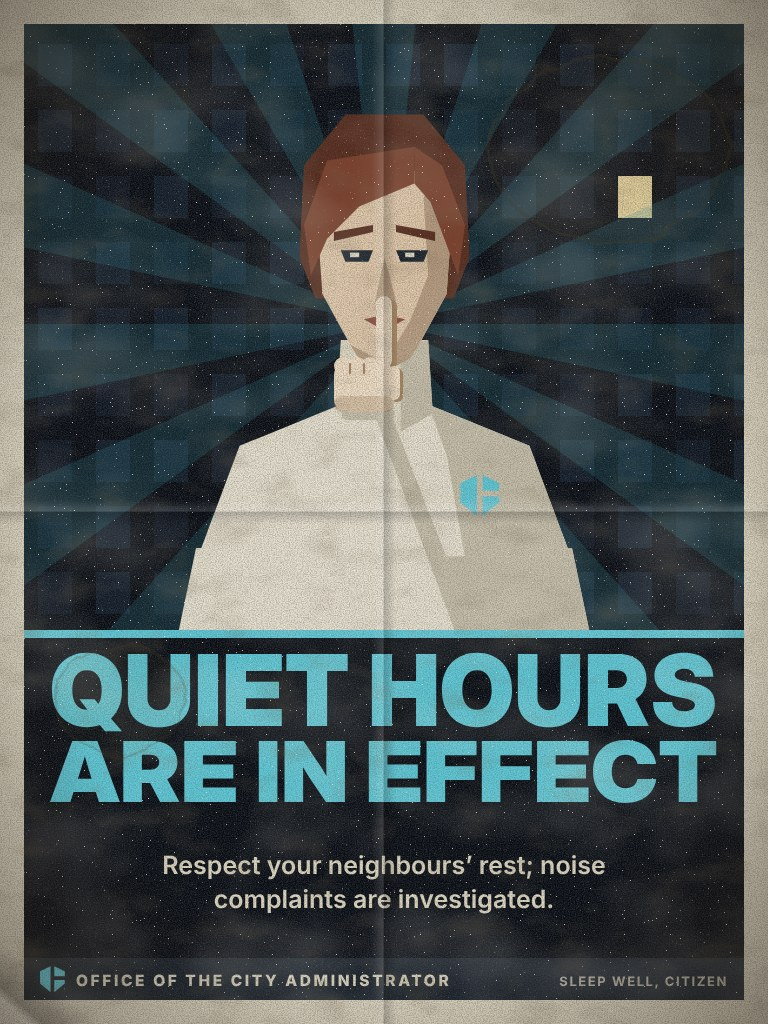
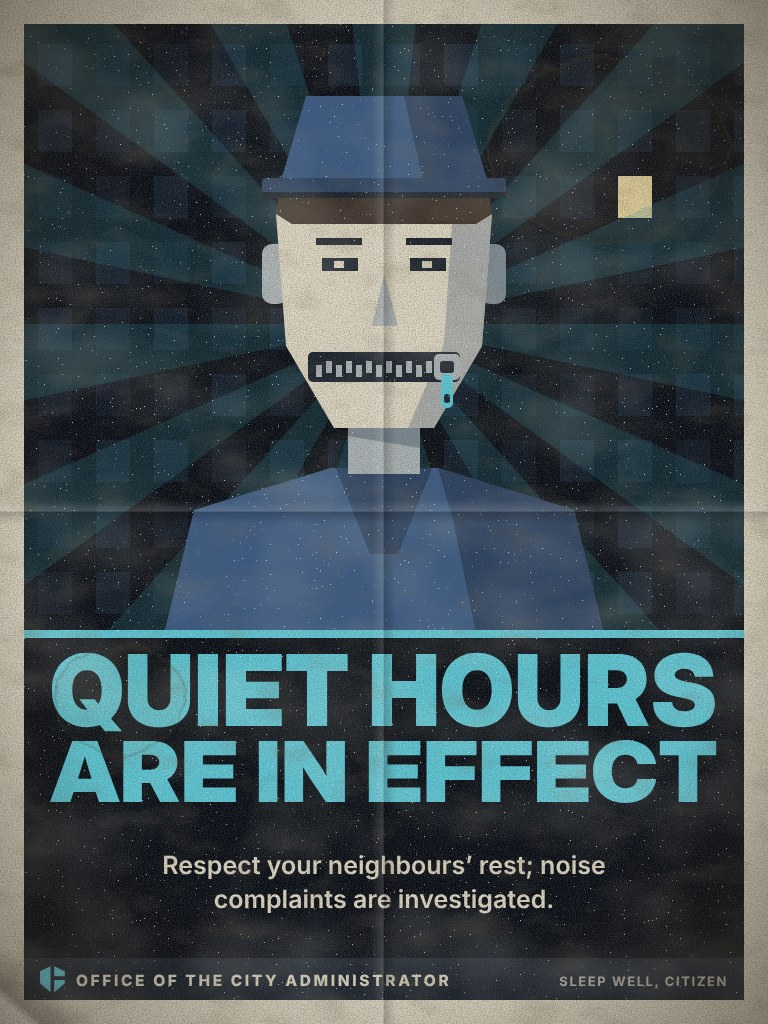
The quiet hours poster, the owner's version: no hand, a citizen with a zip across the mouth, zipped shut
Claude-Session: https://claude.ai/code/session_01Y8SXQmVgVp7ZamRAFg58MA

Changed region(s): [[0.2188, 0.0938, 0.7812, 0.625]]

diff --git a/_dev/posters/dreams7.js b/_dev/posters/dreams7.js
@@ -78,21 +78,23 @@ ART.dream_doors = () => {
   return s;
 };
 
-// Shh!
+// Shh! (the owner, 17 November: no hand; a citizen with a zip across the mouth, zipped shut)
 ART.dream_shh = () => {
   let s = R(0, 0, 720, 610, DARK);
   const q = rng(17);
   for (let x = 14; x < 720; x += 58) for (let y = 20; y < 600; y += 66) s += R(x, y, 34, 42, x === 594 && y === 152 ? C.warm : q() < 0.5 ? '#111c2a' : '#0e1622');
   s += rays(360, 300, 30, 700, C.cyanD, 0, 360, 'opacity=".22"');
-  s += P('M172,524 L548,524 L566,610 L154,610Z', KNIT) + P('M420,524 L548,524 L566,610 L440,610Z', KNITD) + G('translate(165,40) scale(2.3)', adminBust());
-  // her finger to her lips: her left hand (the arm at our right), its back to us, so the other
-  // knuckles run to our left of the finger and the thumb tucks in at our right
-  const HAND = '#eedcc3', HANDD = '#a3835f';
-  s += P('M322,390 L366,388 L452,610 L384,610Z', KNIT) + P('M350,389 L366,388 L452,610 L432,610Z', KNITD) + R(318, 384, 52, 12, KNITD, 'rx="5"');
-  s += R(357, 275, 16, 70, HANDD, 'rx="7"') + R(352, 272, 16, 72, HAND, 'rx="8"');
-  s += R(366, 344, 13, 34, HANDD, 'rx="6"') + R(364, 342, 12, 34, HAND, 'rx="6"');
-  s += [319, 333, 346].map(x => `<circle cx="${x}" cy="342" r="9" fill="${HAND}"/>`).join('') + R(310, 338, 60, 50, HAND, 'rx="13"');
-  s += L('M326,340 v9 M340,340 v9', HANDD, 2.2) + R(310, 372, 60, 16, HANDD, 'rx="8" opacity=".35"');
+  // a citizen, the mouth zipped shut
+  s += P('M140,610 L170,486 L306,444 L414,444 L550,486 L580,610Z', C.blue) + P('M414,444 L550,486 L580,610 L452,610 L430,500Z', C.blueD) + P('M312,444 L408,444 L374,530 L346,530Z', C.blueD);
+  s += R(324, 384, 72, 66, C.steel2) + P('M324,400 L396,400 L396,424 L324,412Z', C.steel);
+  s += R(238, 220, 26, 60, C.steel2, 'rx="10"') + R(456, 220, 26, 60, C.steel, 'rx="10"');
+  s += P('M290,104 L430,104 L468,190 L458,322 L410,404 L310,404 L262,322 L252,190Z', C.paper) + P('M400,104 L430,104 L468,190 L458,322 L410,404 L384,404 L420,320 L428,200Z', C.steel, 'opacity=".55"');
+  s += P('M252,190 L258,150 L462,150 L468,190 L452,200 L268,200Z', '#3a2f28') + P('M256,160 L282,72 L438,72 L464,160Z', C.blue) + P('M380,72 L438,72 L464,160 L400,160Z', C.blueD) + R(238, 154, 244, 20, C.blueD, 'rx="4"') + R(238, 168, 244, 6, C.ink);
+  s += R(292, 214, 46, 7, C.ink) + R(382, 214, 46, 7, C.ink) + R(298, 234, 36, 13, C.ink) + R(386, 234, 36, 13, C.ink) + R(310, 237, 10, 7, C.paper) + R(398, 237, 10, 7, C.paper);
+  s += P('M360,250 L374,302 L348,302Z', C.steel2);
+  s += R(284, 328, 152, 30, C.ink, 'rx="5"');
+  for (let i = 0; i < 12; i++) s += R(292 + i * 10, i % 2 ? 337 : 341, 6, 12, C.steel2);
+  s += R(410, 330, 26, 26, C.steel2, 'rx="5"') + R(416, 337, 14, 12, C.ink, 'rx="3"') + R(417, 350, 12, 34, C.cyan, 'rx="5"') + R(420, 370, 6, 9, C.ink, 'rx="3"');
   return s;
 };
 
